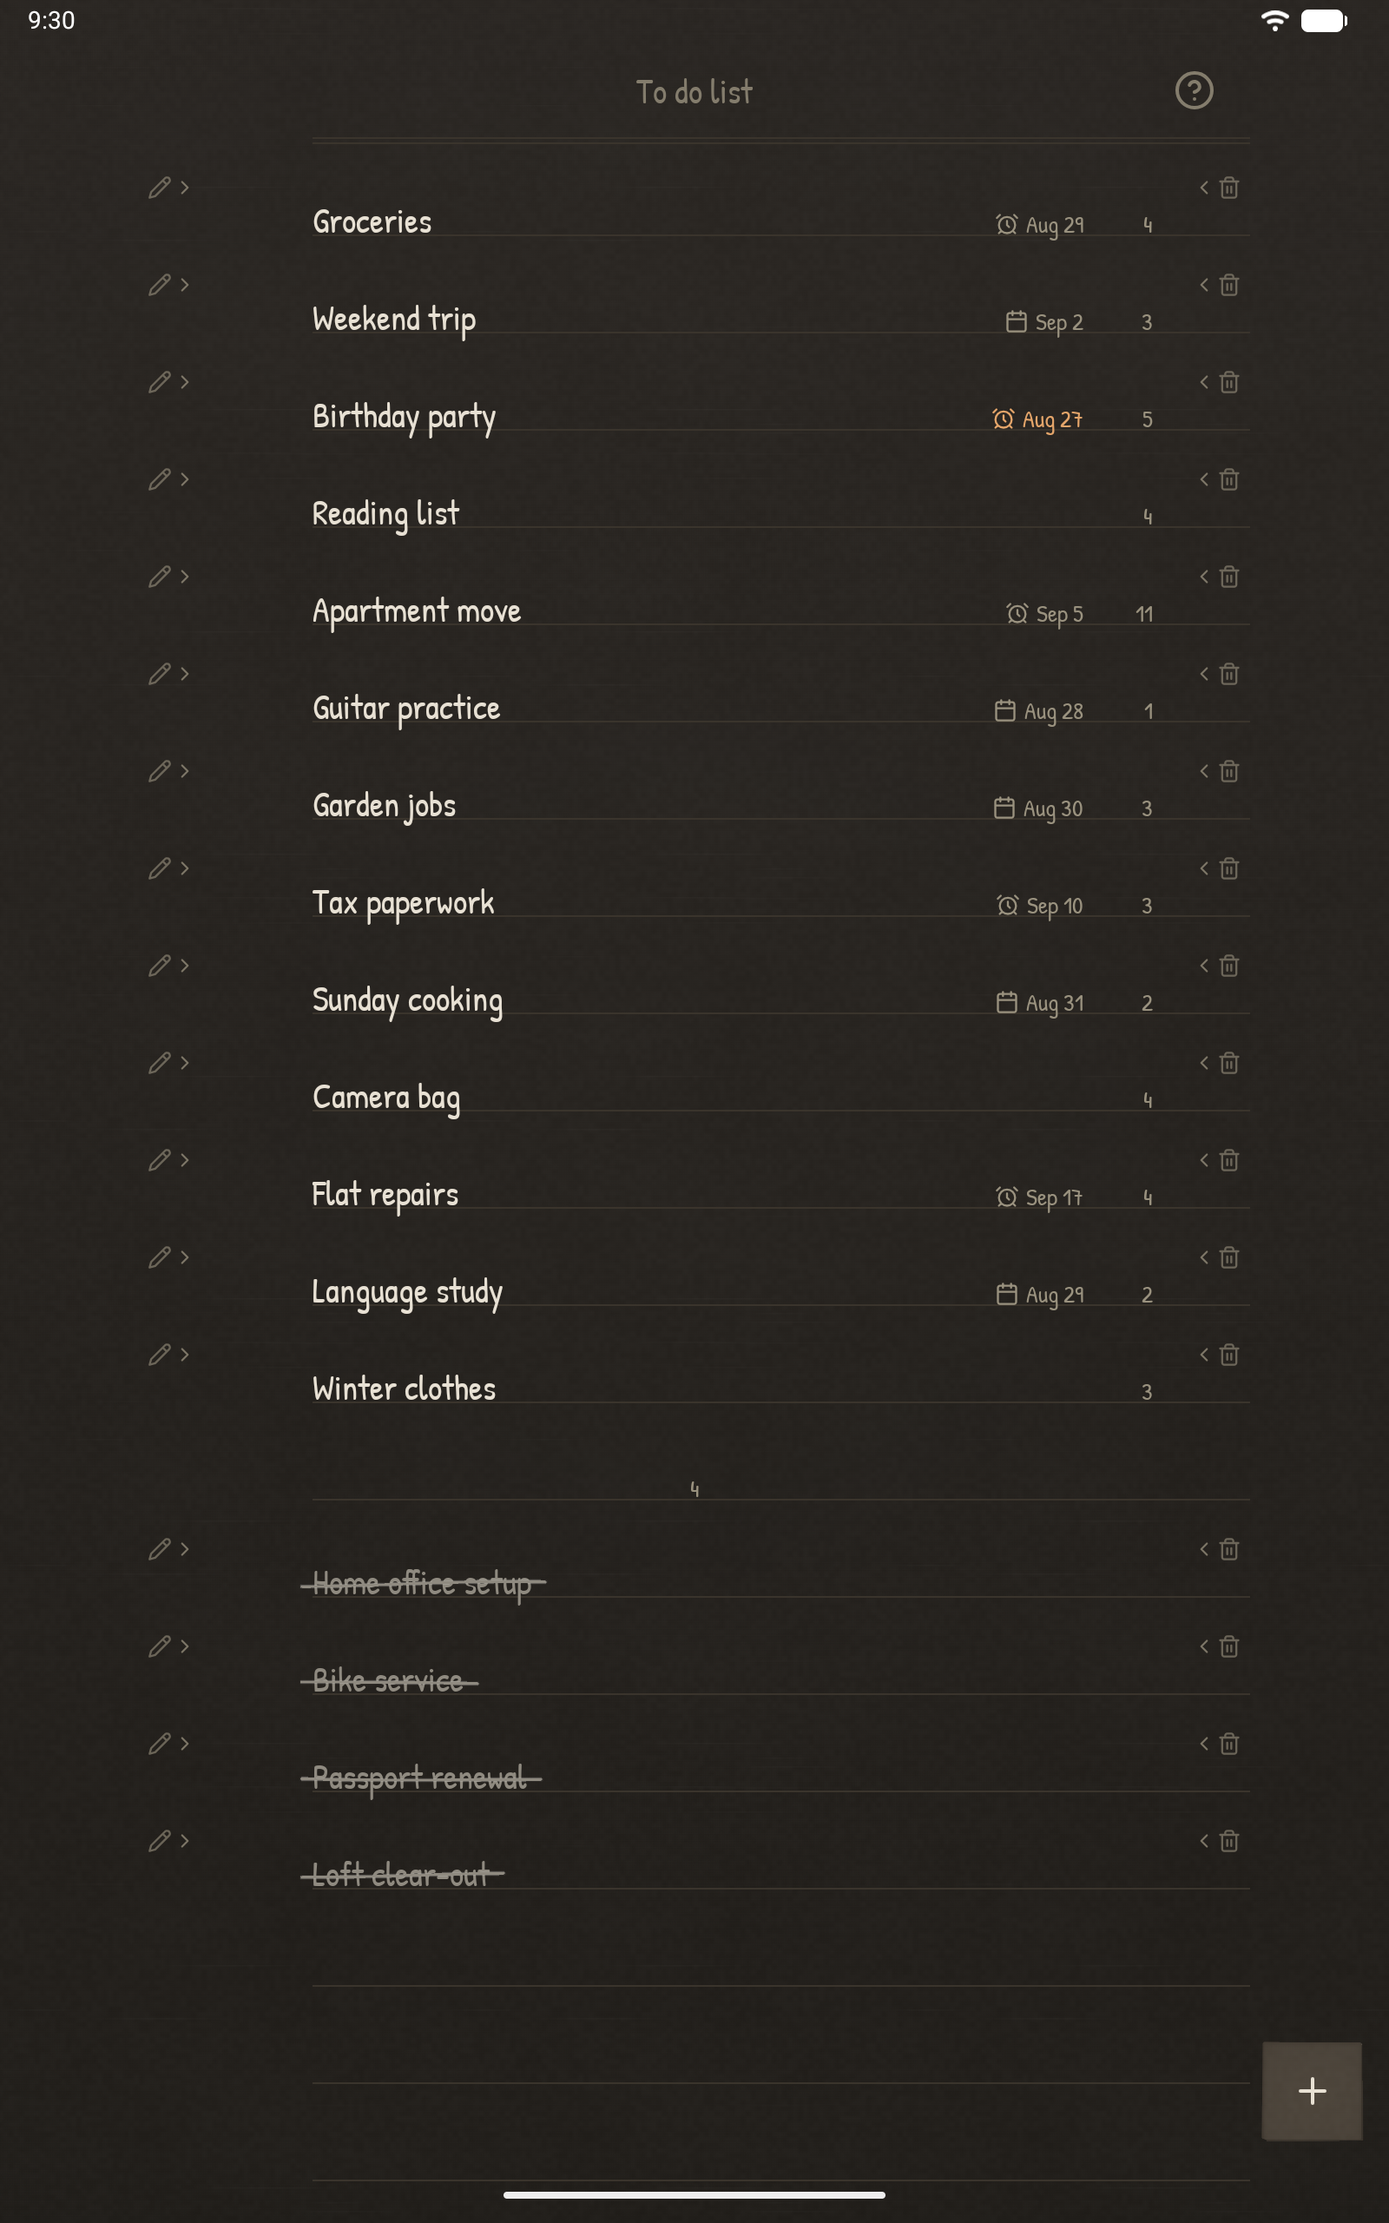
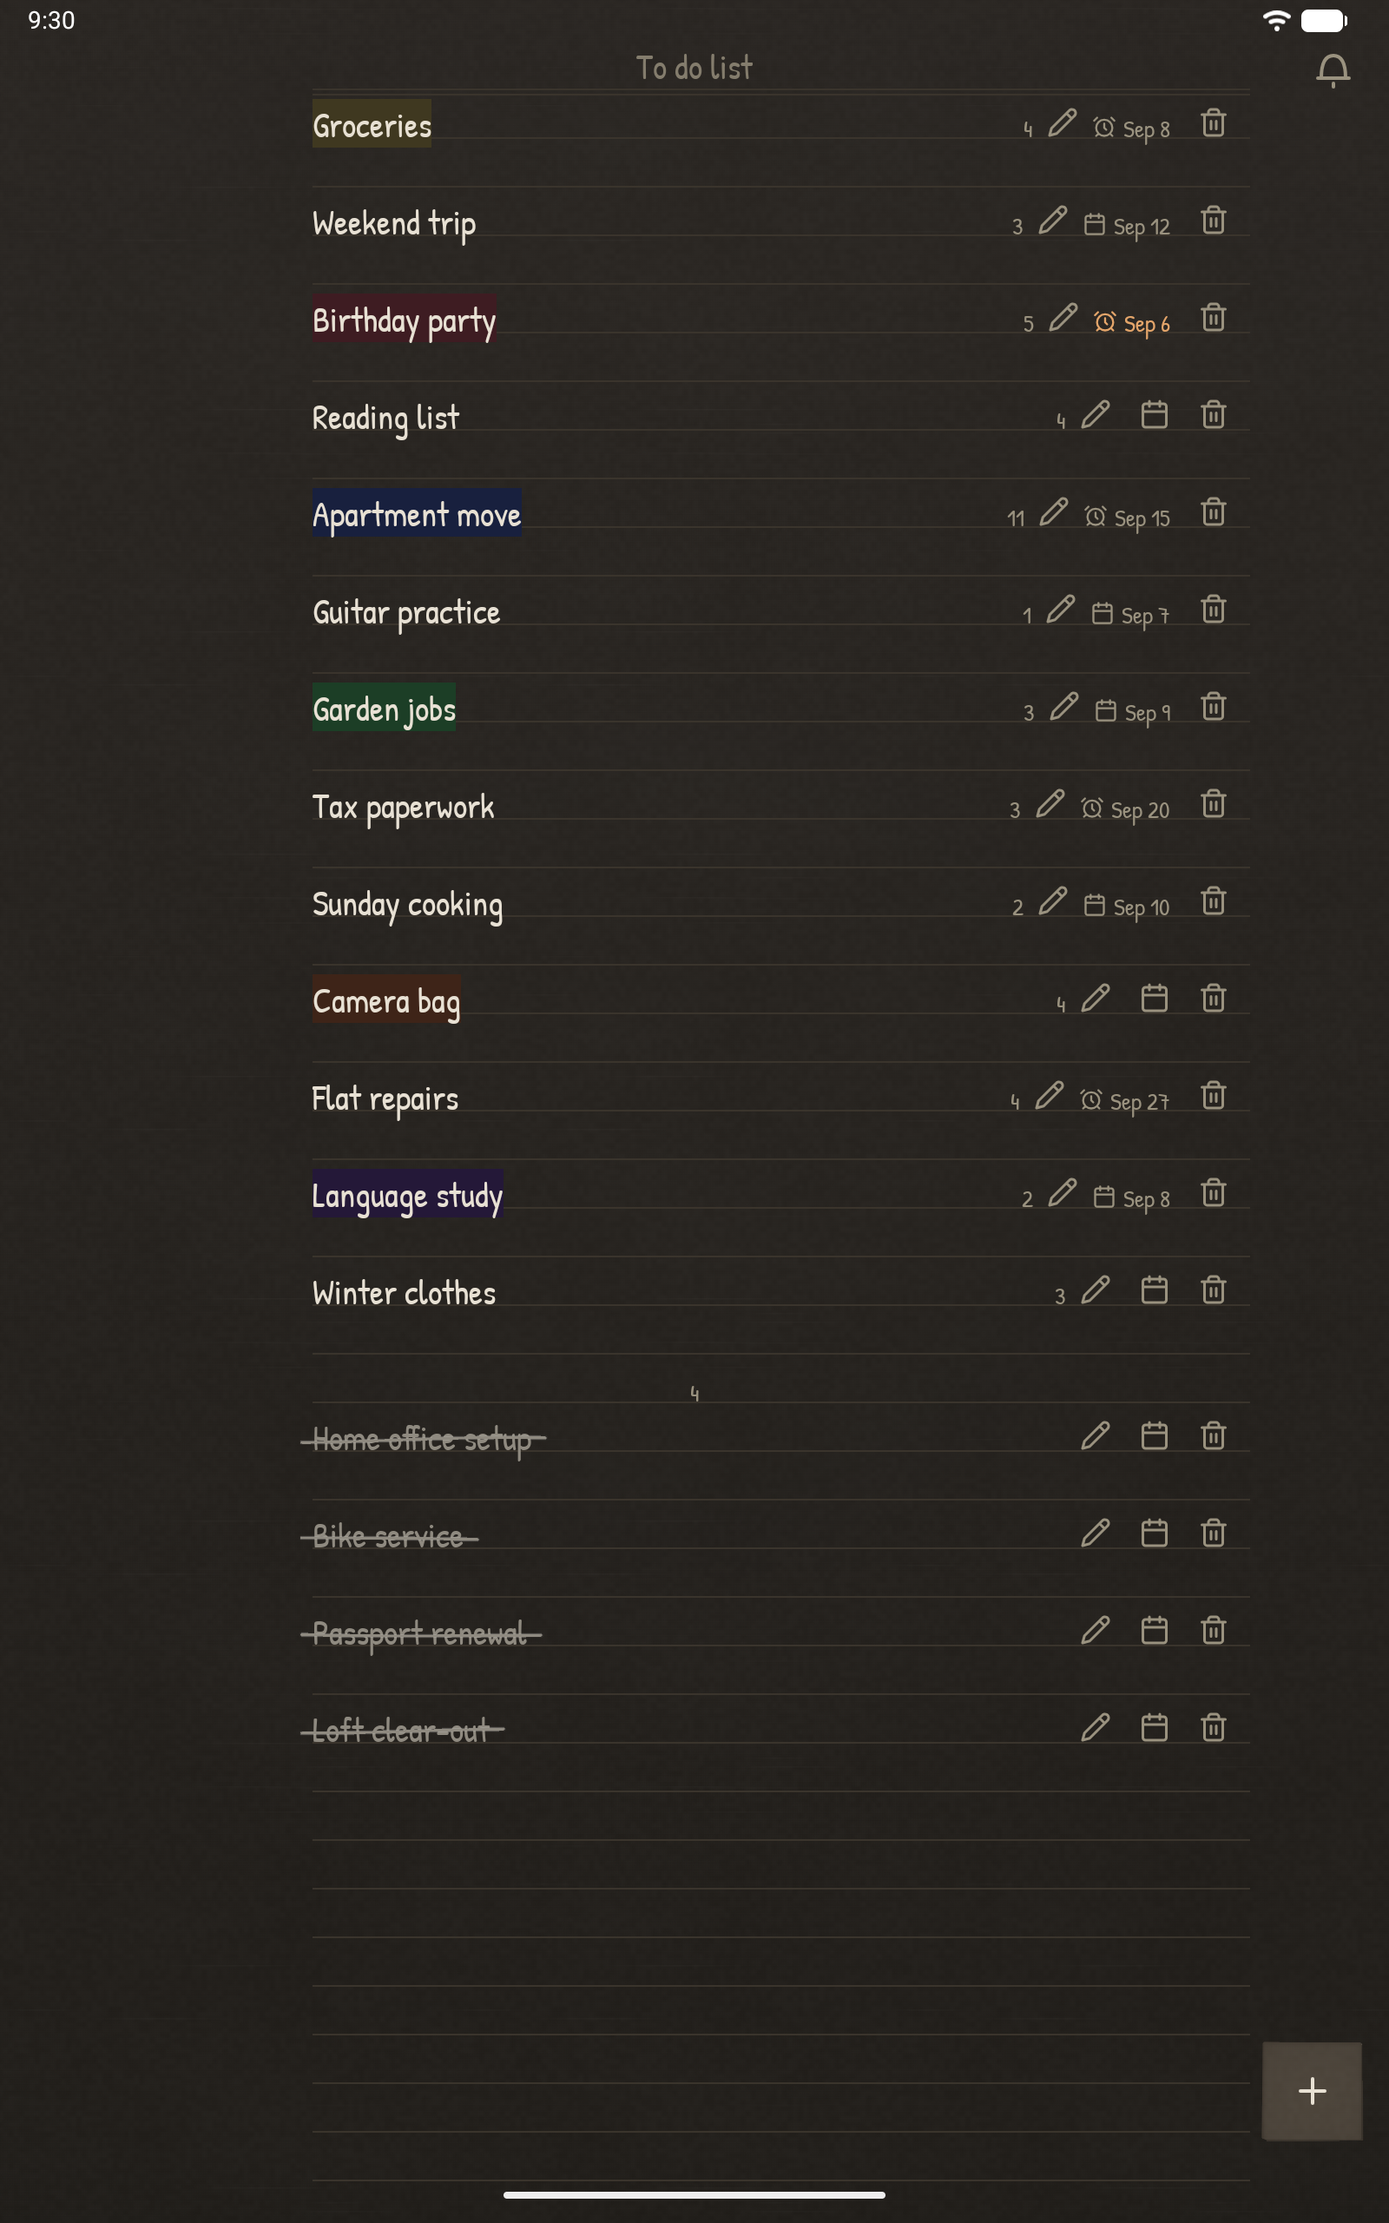
chore: reshoot the store on the page the app draws now

diff --git a/store-assets/tools/make-demo-database.py b/store-assets/tools/make-demo-database.py
@@ -2,67 +2,67 @@ import sqlite3, os, sys
 
 OUT = sys.argv[1]
 if os.path.exists(OUT): os.remove(OUT)
-IDENTITY = "31ef59047f6e20e6911bd945838e6b43"
+IDENTITY = "714f29a6c2859a9709de50688104e017"
 
-TODAY = 20692  # 2026-08-27
+TODAY = 20702  # 2026-09-06
 
-# (id, name, targetDay, dueDay, [(title, completed), ...])
+# (id, name, targetDay, dueDay, colour, [(title, completed), ...])
 LISTS = [
-    ("l1", "Groceries",       None, TODAY + 2, [
+    ("l1", "Groceries",       None, TODAY + 2, "Butter", [
         ("Milk", 0), ("Bread", 0), ("Eggs", 0), ("Coffee beans", 0),
         ("Olive oil", 1), ("Lemons", 1)]),
-    ("l2", "Weekend trip",    TODAY + 6, None, [
+    ("l2", "Weekend trip",    TODAY + 6, None, "None", [
         ("Book the train", 0), ("Pack a raincoat", 0), ("Charge the camera", 0),
         ("Find the tent", 1), ("Print the tickets", 1)]),
-    ("l3", "Birthday party",  None, TODAY, [
+    ("l3", "Birthday party",  None, TODAY, "Rose", [
         ("Order the cake", 0), ("Send the invitations", 0), ("Borrow chairs", 0),
         ("Make a playlist", 0), ("Buy candles", 0),
         ("Book the room", 1)]),
-    ("l4", "Reading list",    None, None, [
+    ("l4", "Reading list",    None, None, "None", [
         ("Piranesi", 0), ("The Overstory", 0), ("A Pale View of Hills", 0),
         ("Tokyo Ueno Station", 0)]),
-    ("l5", "Apartment move",  None, TODAY + 9, [
+    ("l5", "Apartment move",  None, TODAY + 9, "Sky", [
         ("Call the movers", 0), ("Change the address", 0), ("Return the keys", 0),
         ("Box up the kitchen", 0), ("Cancel the internet", 0), ("Measure the sofa", 0),
         ("Book the lift", 1)]),
-    ("l6", "Guitar practice", TODAY + 1, None, [
+    ("l6", "Guitar practice", TODAY + 1, None, "None", [
         ("Learn the bridge", 0),
         ("Restring it", 1), ("Tune by ear", 1), ("Chord chart", 1)]),
-    ("l8", "Home office setup", None, None, [
+    ("l8", "Home office setup", None, None, "None", [
         ("Order the lamp", 1), ("Hang the shelf", 1), ("Route the cables", 1)]),
-    ("l9", "Bike service",    None, None, [
+    ("l9", "Bike service",    None, None, "None", [
         ("New brake pads", 1), ("Straighten the wheel", 1)]),
 ]
 
 
 BIG = [
-    ("m1", "Garden jobs",     TODAY + 3, None, [
+    ("m1", "Garden jobs",     TODAY + 3, None, "Mint", [
         ("Repot the basil", 0), ("Buy compost", 0), ("Fix the water timer", 0),
         ("Prune the olive", 1)]),
-    ("m2", "Tax paperwork",   None, TODAY + 14, [
+    ("m2", "Tax paperwork",   None, TODAY + 14, "None", [
         ("Find last year's return", 0), ("Scan the receipts", 0),
         ("Email the accountant", 0)]),
-    ("m3", "Sunday cooking",  TODAY + 4, None, [
+    ("m3", "Sunday cooking",  TODAY + 4, None, "None", [
         ("Sourdough starter", 0), ("Roast the peppers", 0)]),
-    ("m4", "Camera bag",      None, None, [
+    ("m4", "Camera bag",      None, None, "Peach", [
         ("Spare batteries", 0), ("Lens cloth", 0), ("SD cards", 0), ("Rain cover", 0)]),
-    ("m5", "Flat repairs",    None, TODAY + 21, [
+    ("m5", "Flat repairs",    None, TODAY + 21, "None", [
         ("Silicone the bath", 0), ("Bleed the radiators", 0), ("Draught strip", 0),
         ("Replace the fuse box cover", 0), ("Sand the door", 1)]),
-    ("m6", "Language study",  TODAY + 2, None, [
+    ("m6", "Language study",  TODAY + 2, None, "Lilac", [
         ("Chapter 7 exercises", 0), ("Twenty new words", 0)]),
-    ("m7", "Winter clothes",  None, None, [
+    ("m7", "Winter clothes",  None, None, "None", [
         ("Wash the coats", 0), ("Reproof the shell", 0), ("Mend the gloves", 0)]),
-    ("m8", "Passport renewal", None, None, [
+    ("m8", "Passport renewal", None, None, "None", [
         ("Photo booth", 1), ("Fill the form", 1), ("Post the old one", 1)]),
-    ("m9", "Loft clear-out",  None, None, [
+    ("m9", "Loft clear-out",  None, None, "None", [
         ("Sort the boxes", 1), ("Book the tip run", 1), ("Sell the old desk", 1)]),
 ]
 
 if "--big" in sys.argv:
     tail = LISTS[-2:]
     LISTS = LISTS[:-2] + BIG[:7] + tail + BIG[7:]
-    LISTS[4] = ("l5", "Apartment move", None, TODAY + 9, [
+    LISTS[4] = ("l5", "Apartment move", None, TODAY + 9, "Sky", [
         ("Call the movers", 0), ("Change the address", 0), ("Return the keys", 0),
         ("Box up the kitchen", 0), ("Cancel the internet", 0), ("Measure the sofa", 0),
         ("Redirect the post", 0), ("Read the meters", 0), ("Defrost the freezer", 0),
@@ -71,22 +71,22 @@ if "--big" in sys.argv:
 
 db = sqlite3.connect(OUT)
 c = db.cursor()
-c.execute("CREATE TABLE IF NOT EXISTS `todo_lists` (`id` TEXT NOT NULL, `name` TEXT NOT NULL, `position` INTEGER NOT NULL, `targetDate` INTEGER, `dueDate` INTEGER, PRIMARY KEY(`id`))")
+c.execute("CREATE TABLE IF NOT EXISTS `todo_lists` (`id` TEXT NOT NULL, `name` TEXT NOT NULL, `position` INTEGER NOT NULL, `targetDate` INTEGER, `dueDate` INTEGER, `colour` TEXT NOT NULL, PRIMARY KEY(`id`))")
 c.execute("CREATE TABLE IF NOT EXISTS `todo_items` (`id` TEXT NOT NULL, `title` TEXT NOT NULL, `listId` TEXT NOT NULL, `completed` INTEGER NOT NULL, `completedAt` INTEGER, `position` INTEGER NOT NULL, PRIMARY KEY(`id`), FOREIGN KEY(`listId`) REFERENCES `todo_lists`(`id`) ON UPDATE NO ACTION ON DELETE CASCADE )")
 c.execute("CREATE INDEX IF NOT EXISTS `index_todo_items_listId` ON `todo_items` (`listId`)")
 c.execute("CREATE TABLE IF NOT EXISTS room_master_table (id INTEGER PRIMARY KEY, identity_hash TEXT)")
 c.execute("INSERT OR REPLACE INTO room_master_table (id, identity_hash) VALUES (42, ?)", (IDENTITY,))
 
 done_at = 1787000000000
-for pos, (lid, name, target, due, items) in enumerate(LISTS):
-    c.execute("INSERT INTO todo_lists VALUES (?,?,?,?,?)", (lid, name, pos, target, due))
+for pos, (lid, name, target, due, colour, items) in enumerate(LISTS):
+    c.execute("INSERT INTO todo_lists VALUES (?,?,?,?,?,?)", (lid, name, pos, target, due, colour))
     for i, (title, completed) in enumerate(items):
         done_at += 60000
         c.execute("INSERT INTO todo_items VALUES (?,?,?,?,?,?)",
                   (f"{lid}-i{i}", title, lid, completed, done_at if completed else None, i))
 
 db.commit()
-c.execute("PRAGMA user_version = 7")
+c.execute("PRAGMA user_version = 8")
 c.execute("PRAGMA journal_mode = TRUNCATE")
 db.commit()
 db.close()

diff --git a/store-assets/tools/capture-screenshots.py b/store-assets/tools/capture-screenshots.py
@@ -40,7 +40,8 @@ def dump(dev):
     raise RuntimeError("no ui dump")
 
 
-def find(xml, *, text=None, desc=None):
+def find(xml, *, text=None, desc=None, near=None):
+    hits = []
     for node in re.finditer(r"<node [^>]*>", xml):
         n = node.group(0)
         if text is not None and f'text="{text}"' not in n:
@@ -49,8 +50,12 @@ def find(xml, *, text=None, desc=None):
             continue
         m = re.search(r'bounds="\[(\d+),(\d+)\]\[(\d+),(\d+)\]"', n)
         x1, y1, x2, y2 = map(int, m.groups())
-        return (x1 + x2) // 2, (y1 + y2) // 2
-    return None
+        hits.append(((x1 + x2) // 2, (y1 + y2) // 2))
+    if not hits:
+        return None
+    if near is None:
+        return hits[0]
+    return min(hits, key=lambda p: abs(p[1] - near[1]))
 
 
 def need(xml, **kw):
@@ -58,6 +63,12 @@ def need(xml, **kw):
     if p is None:
         raise RuntimeError(f"not found: {kw}")
     return p
+
+
+def hush(dev):
+    shell(dev, "am broadcast -a com.android.systemui.demo -e command notifications -e visible false")
+    for key in shell(dev, "cmd notification list").split():
+        shell(dev, f"cmd notification snooze --for 86400000 '{key}'")
 
 
 def demo_mode(dev):
@@ -69,27 +80,27 @@ def demo_mode(dev):
     b("-e command battery -e level 100 -e plugged false -e powersave false")
     b("-e command network -e wifi show -e level 4 -e fully true -e mobile hide -e airplane hide")
     b("-e command notifications -e visible false")
+    shell(dev, f"pm revoke {PKG} android.permission.POST_NOTIFICATIONS")
     b("-e command status -e volume hide -e bluetooth hide -e location hide -e alarm hide"
       " -e sync hide -e tty hide -e eri hide -e mute hide -e speakerphone hide"
       " -e managed_profile hide -e zen hide -e vpn hide -e cast hide -e hotspot hide")
-    for key in shell(dev, "cmd notification list").split():
-        shell(dev, f"cmd notification snooze --for 86400000 '{key}'")
+    hush(dev)
 
 
 def seed(dev):
     shell(dev, f"am force-stop {PKG}")
     sh(dev, "push", f"{SEED}/" + os.environ.get("SEED_DB", "todo_database"), "/data/local/tmp/todo_database")
-    sh(dev, "push", f"{SEED}/tutorial_state.xml", "/data/local/tmp/tutorial_state.xml")
     shell(dev, f"run-as {PKG} sh -c '"
                "rm -f databases/todo_database databases/todo_database-wal databases/todo_database-shm; "
-               "mkdir -p databases shared_prefs; "
-               "cp /data/local/tmp/todo_database databases/todo_database; "
-               "cp /data/local/tmp/tutorial_state.xml shared_prefs/tutorial_state.xml'")
+               "mkdir -p databases; "
+               "cp /data/local/tmp/todo_database databases/todo_database'")
 
 
 def launch(dev):
     shell(dev, f"am start -n {PKG}/.ui.TodoListsActivity")
     time.sleep(4)
+    hush(dev)
+    time.sleep(1)
 
 
 def main():
@@ -120,11 +131,8 @@ def main():
 
         if f"date{tag}" in want:
             xml = dump(dev)
-            x, y = need(xml, text="Reading list")
-            shell(dev, f"input swipe {x // 3} {y} {x * 3 // 2} {y} 300")
-            time.sleep(2)
-            xml = dump(dev)
-            cx, cy = need(xml, desc="Set target date")
+            row = need(xml, text="Reading list")
+            cx, cy = need(xml, desc="Give this list a day", near=row)
             shell(dev, f"input tap {cx} {cy}")
             time.sleep(3)
             screencap(dev, f"{outdir}/{prefix}-date{tag}.png")

diff --git a/store-assets/README.md b/store-assets/README.md
@@ -1,12 +1,13 @@
 # Store assets
 
 Everything the Play Console listing needs, and the tooling that regenerates it.
-All of it was redrawn on 2026-08-27 for the ruled-paper design; anything older
-in the history shows the retired Material 3 build.
+All of it was redrawn on 2026-09-06 for the row controls, the date slot and the
+per-list colours; the 2026-08-27 set shows the page before those, and anything
+older in the history shows the retired Material 3 build.
 
 ```
-ic_launcher_play_store.png   512×512 high-res icon
 listing/
+  ic_launcher_play_store.png 512×512 high-res icon
   feature-graphic.png        1024×500
   make-feature-graphic.py    draws it
   full-description-*.txt     en-US, fr-FR
@@ -22,12 +23,18 @@ tools/
 
 ## The high-res icon
 
-`ic_launcher_play_store.png` is the 108 dp launcher canvas rendered 1:1 onto 512 px
-with the background full-bleed, and Play applies its own mask to it. It is written
-by `tools/make-launcher-icons.py` alongside the legacy mipmaps, from the same
+`listing/ic_launcher_play_store.png` is the 108 dp launcher canvas rendered 1:1 onto
+512 px with the background full-bleed, and Play applies its own mask to it. It is
+written by `tools/make-launcher-icons.py` alongside the legacy mipmaps, from the same
 geometry as the vector — it used to be redrawn by hand, which is a copy that can go
 stale against the drawable and quietly did. Re-run the tool whenever the vector
 changes. See `docs/app-icons.md`.
+
+A second copy sat at `store-assets/ic_launcher_play_store.png` until 2026-09-06,
+outside the one path the tool writes. It was exactly the failure the paragraph above
+describes — still the retired sticky-note-and-tick mark long after the icon had
+become the checklist — so it was deleted rather than regenerated. The generated file
+under `listing/` is the only one.
 
 ## The feature graphic
 
@@ -65,16 +72,23 @@ SEED_DB=todo_database_big python3 tools/capture-screenshots.py $D out/tablet10 t
     lists items lists-dark
 ```
 
-The script pushes the demo database and a `tutorial_seen` preference into the
-debug build's data directory with `run-as`, so the first-launch tour does not
-stand in front of the page. It also puts SystemUI into demo mode — 9:30, full
-battery, one wi-fi glyph — and snoozes every standing notification, because the
-Safety Center shield sits in the status bar of a fresh emulator and demo mode
-will not hide it.
+The script pushes the demo database into the debug build's data directory with
+`run-as`. It also puts SystemUI into demo mode — 9:30, full battery, one wi-fi
+glyph — and snoozes every standing notification, because the Safety Center shield
+sits in the status bar of a fresh emulator and demo mode will not hide it.
+
+Snoozing once is not enough. The app posts its own daily reminder as soon as it
+has been seeded and launched, and that glyph lands in the status bar of every
+capture after it, so `POST_NOTIFICATIONS` is revoked up front and the snooze is
+run again after each launch.
 
 `TODAY` in `make-demo-database.py` is an epoch day and is what makes the amber
 "due today" row amber. Move it forward before a fresh capture run, or the dates
 in the screenshots will have drifted into the past.
+
+The demo database is written at the schema version the app is on — `IDENTITY` and
+`PRAGMA user_version` both have to match `app/schemas/…/<n>.json`, or Room throws
+on the first read and the capture run screenshots a crash.
 
 ## What the screenshots are chosen to show
 
@@ -84,3 +98,7 @@ in the screenshots will have drifted into the past.
 | `02-items` | one list open: rings, the add line, the done section |
 | `03-calendar` | the paper calendar and the caption that teaches target day from deadline |
 | `04`, `05` | the same pages by lamplight |
+
+Six of the demo lists carry a `ListColour` and the rest are plain, so the page
+shows the wash without reading as a paint chart. The phone set has three of them
+in view; the tablet set, which seeds the longer `--big` database, has all six.

diff --git a/docs/app-icons.md b/docs/app-icons.md
@@ -30,7 +30,7 @@ Replaces the default Android Studio green-robot launcher icon with the app's own
 - `app/src/main/res/mipmap-xhdpi/ic_launcher_round.webp` — 96×96 px round raster
 - `app/src/main/res/mipmap-xxhdpi/ic_launcher_round.webp` — 144×144 px round raster
 - `app/src/main/res/mipmap-xxxhdpi/ic_launcher_round.webp` — 192×192 px round raster
-- `store-assets/ic_launcher_play_store.png` — 512×512 Play Store high-res icon, the 108 dp canvas rendered 1:1 onto 512 px with the background full-bleed; stored outside `app/src/main/res/` so it is not bundled into the APK. It is generated from the same paths as the two layer drawables and must be redrawn whenever they change — it was still carrying the retired purple long after the layers had been repainted.
+- `store-assets/listing/ic_launcher_play_store.png` — 512×512 Play Store high-res icon, the 108 dp canvas rendered 1:1 onto 512 px with the background full-bleed; stored outside `app/src/main/res/` so it is not bundled into the APK. It is generated from the same paths as the two layer drawables and must be redrawn whenever they change — it was still carrying the retired purple long after the layers had been repainted.
 
 ## Invariants & contracts
 - `mipmap-anydpi-v26/ic_launcher.xml` and `ic_launcher_round.xml` were left unchanged; both already declare `<background>`, `<foreground>`, and `<monochrome>`. The `<monochrome>` layer is its own file, `@drawable/ic_launcher_monochrome` — a bare tick stroked in solid black on transparency, which is what Android 13+ themed-icon tinting needs; the colour foreground would tint to a solid block.
